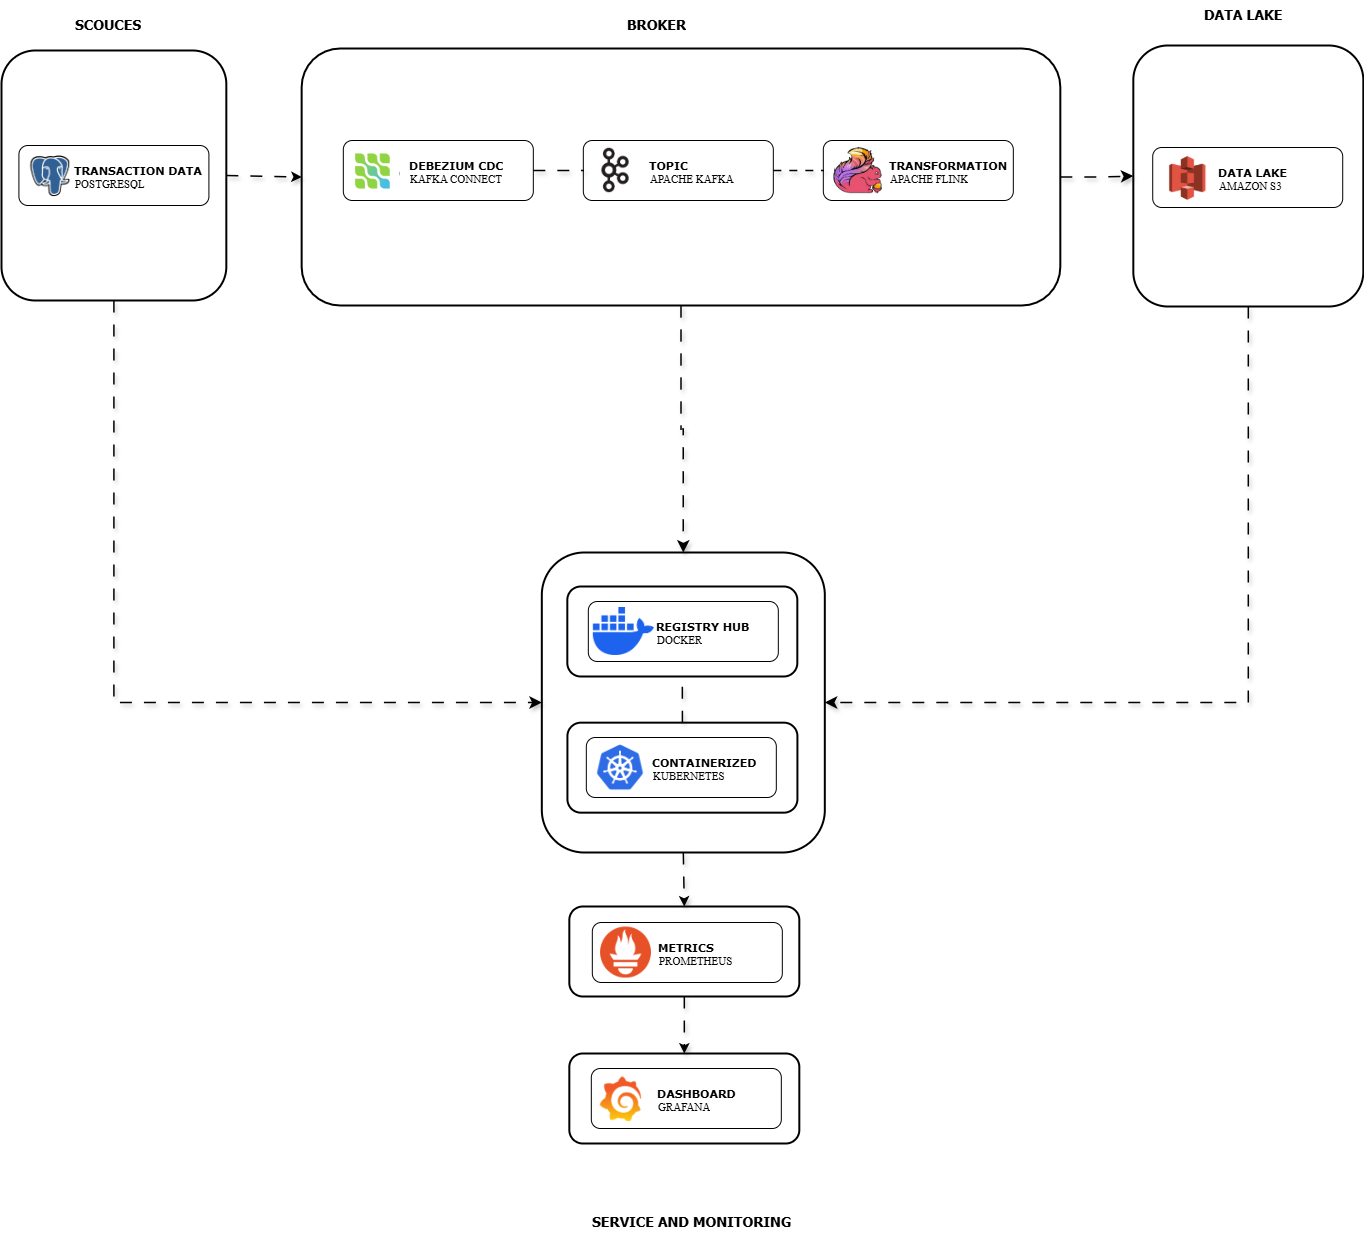
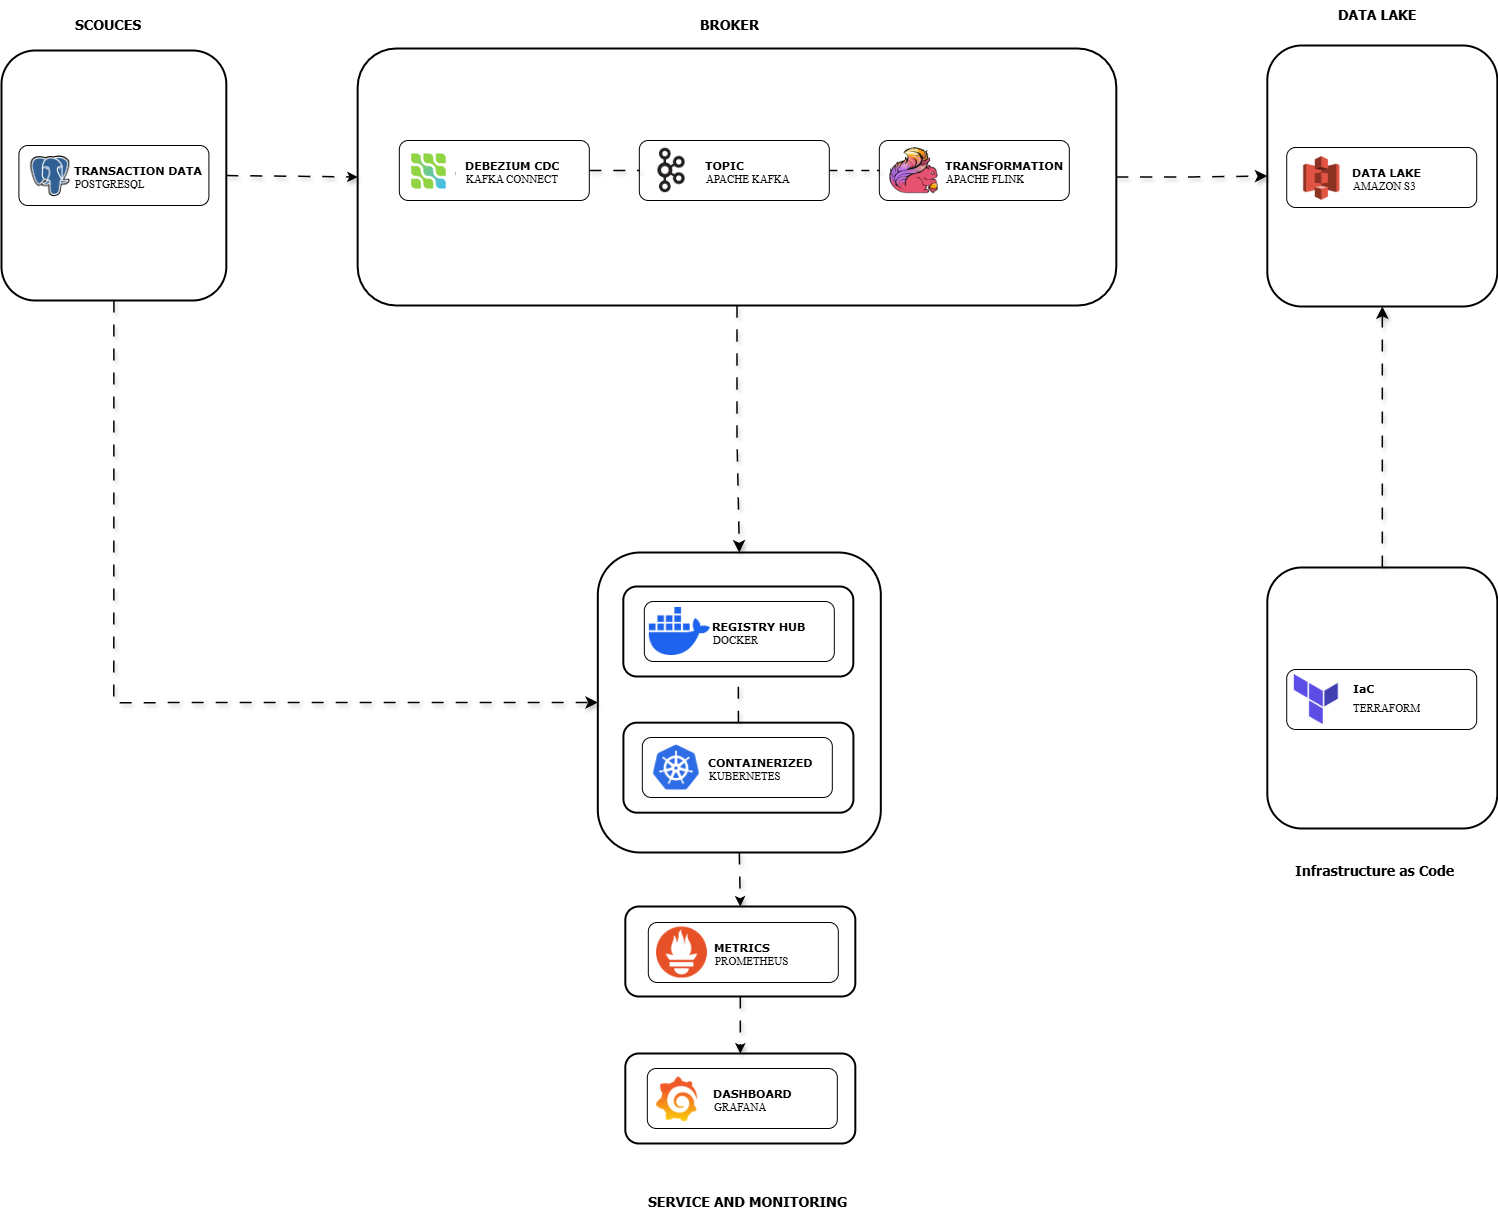
Add file structure for new file

diff --git a/README.md b/README.md
@@ -1,25 +1,44 @@
 ## Real Time Order Transactions Analytic E-Commerce
 
-E-commerce companies need a system that can:
+## Overview
 
-- Collect order transactions in real time
-- View order updates as they occur (NEW → PAID → SHIPPED → COMPLETED)
-- Quickly calculate GMV (Gross Merchandise Value)
-- Monitor sales activity by product, category, city, and hour
-- Provide high-quality data for batch analysis
-- Generate daily, weekly, and monthly reports
-- That's why companies need a Real-Time + Batch Data Pipeline like the one you built.
+This project implements a real-time streaming data pipeline for e-commerce order transactions. The pipeline is designed to capture order changes as they occur, process them with low latency, and store the results in a scalable Amazon S3 data lake for further analytics.
+The system focuses on streaming ingestion and processing only. Batch analytics, BI dashboards, and data warehouse integration are intentionally kept out of scope to clearly demonstrate real-time data engineering capabilities.
+
+## Business Problem
+
+E-commerce platforms generate high-volume transactional data with frequent state changes. The business needs a system that can:
+
+- Capture order transactions in real time
+- Track order lifecycle changes (NEW → PAID → SHIPPED → COMPLETED)
+- Calculate Gross Merchandise Value (GMV) with low latency
+- Monitor sales activity by product, category, city, and time window
+- Store high-quality streaming data for future batch and analytical use
 
 ## Project Objectives
 
 This pipeline was built to:
 
-Real-time objectives
+- Capture row-level changes from PostgreSQL using Debezium CDC
+- Stream transactional events through Apache Kafka
+- Perform stateful streaming ETL using Apache Flink
+- Handle real-time aggregations and order state transitions
+- Persist near real-time processed data into Amazon S3 as a data lake
+- Deploy services using Docker & Kubernetes
+- Monitor system health and metrics with Prometheus & Grafana
 
-- Capture order changes in PostgreSQL using Debezium CDC
-- Send streaming events to Kafka
-- Process events (streaming ETL) with Flink with low latency
-- Save real-time snapshots to the Data Lake in S3 AWS
+## Architecture
+
+Data Flow:
+
+`PostgreSQL → Debezium CDC → Kafka → Flink (Streaming ETL) → Amazon S3`
+
+Infrastructure & Operations:
+
+- Containerized services managed with Kubernetes
+- Docker Hub used as container registry
+- Infrastructure provisioned using Terraform (IaC)
+- Metrics collected by Prometheus and visualized in Grafana
 
 # ERD (Entity Relationship Diagram)
 
@@ -30,7 +49,7 @@ Real-time objectives
 # Data Architecture
 
 <div style="text-align: center;">
-  <img src="./images/Architecture.png" width="950">
+  <img src="./images/Architecture.png" width="700">
 </div>
 
 # Technologies
@@ -63,7 +82,7 @@ Real-time objectives
 
 **start:**
 
-- `make kubectl-Starting-batching-k8s`
+- `make kubectl-database-k8s`
 
 **Run Create DB in Postgres**
 
@@ -75,7 +94,8 @@ Real-time objectives
 
 **stop/delete:**
 
-- `make kubectl-Stopping-batching-k8s`
+- `make kubectl-Stopping-database-k8s`
+
 
 2. **Run for step streaming to active and inactive**
 
@@ -87,13 +107,38 @@ Real-time objectives
 
 `make kubectl-running-streaming-debezium-k8s`
 
+**Checking Status Debezium**
+
+`curl http://localhost:8083/connectors/data_lake-cdc-connector/status`
+
 **stop/delete:**
 
 `make kubectl-Stop-Streaming-k8s`
 
+**Streaming Process:**
+
+`make kubectl get pods` #check pods in running
+
+**Copy flink:**
+
+`kubectl cp flink-scripts/flink_consumer.py flink-jobmanager-xxxxxxxxxx:/opt/flink/flink-scripts/flink_consumer.py`
+
+**Enter to Bash Flink:**
+
+`kubectl exec -it flink-jobmanager-xxxxxxxxxx -- bash`
+
+**Run Flink normal (real-time):**
+
+`flink run -py /opt/flink/flink-scripts/flink_consumer.py -p 1`
+
+**Run Flink Backfill (BACKFILL_FROM_DATE = date):**
+
+`FLINK_MODE=backfill BACKFILL_FROM_DATE=2026-xx-xx flink run -py /opt/flink/flink-scripts/flink_consumer.py -p 1`
+
+
 3. **Run for step Monitoring to active and inactive**
 
-**start**
+**start:**
 
 - `make kubectl-Starting-monitoring-k8s`
 
@@ -113,6 +158,31 @@ Real-time objectives
 | `prometheus`   | Metrics real-time data.                                                                  |
 | `grafana`      | Monitor real-time data.                                                                  |
 
+## Please Add at .env
+
+```
+AWS_ACCESS_KEY_ID=Your-AWS_ACCESS_KEY_ID
+AWS_SECRET_ACCESS_KEY=Your-AWS_SECRET_ACCESS_KEY
+AWS_DEFAULT_REGION=ap-southeast-1
+```
+
+*copy and paste to file .env
+
+## Please Add for Bucket S3 at k8s/streaming/config/config-flink.yaml
+
+```
+fs.s3a.impl: org.apache.hadoop.fs.s3a.S3AFileSystem
+fs.s3a.path.style.access: true
+fs.s3a.connection.ssl.enabled: true
+state.checkpoints.dir: s3a://Your-buckets/flink/checkpoints
+state.savepoints.dir: s3a://Your-buckets/flink/savepoints
+fs.s3a.endpoint: s3.amazonaws.com
+fs.s3a.access.key: Your-Access-Key
+fs.s3a.secret.key: Your-secret-Key
+fs.s3a.path.style.access: true
+```
+
+*copy and paste to file config-flink.yaml at flink-conf.yaml
 
 **additional**
 
@@ -132,3 +202,47 @@ Real-time objectives
 - kubectl delete pv --all
 - kubectl delete configmap --all
 - kubectl delete secret --all
+
+## Documentation
+
+Postgresql With PgAdmin UI :
+
+`http://localhost:30080/`
+
+<div style="text-align: center;">
+  <img src="./images/Postgresql/postgre.png" width="500">
+</div>
+
+Kafka With provectuslabs UI :
+
+`http://localhost:30087/ui/clusters/local/all-topics`
+
+<div style="text-align: center;">
+  <img src="./images/Kafka/kafka_topic.png" width="500">
+</div>
+
+Flink UI:
+
+`http://localhost:30081/`
+
+<div style="text-align: center;">
+  <img src="./images/Flink/flink.png" width="500">
+</div>
+
+Prometheus & Grafana:
+
+- Prometheus
+
+`http://localhost:32222/`
+
+<div style="text-align: center;">
+  <img src="" width="500">
+</div>
+
+- Grafana
+
+`http://localhost:32000/`
+
+<div style="text-align: center;">
+  <img src="" width="500">
+</div>
